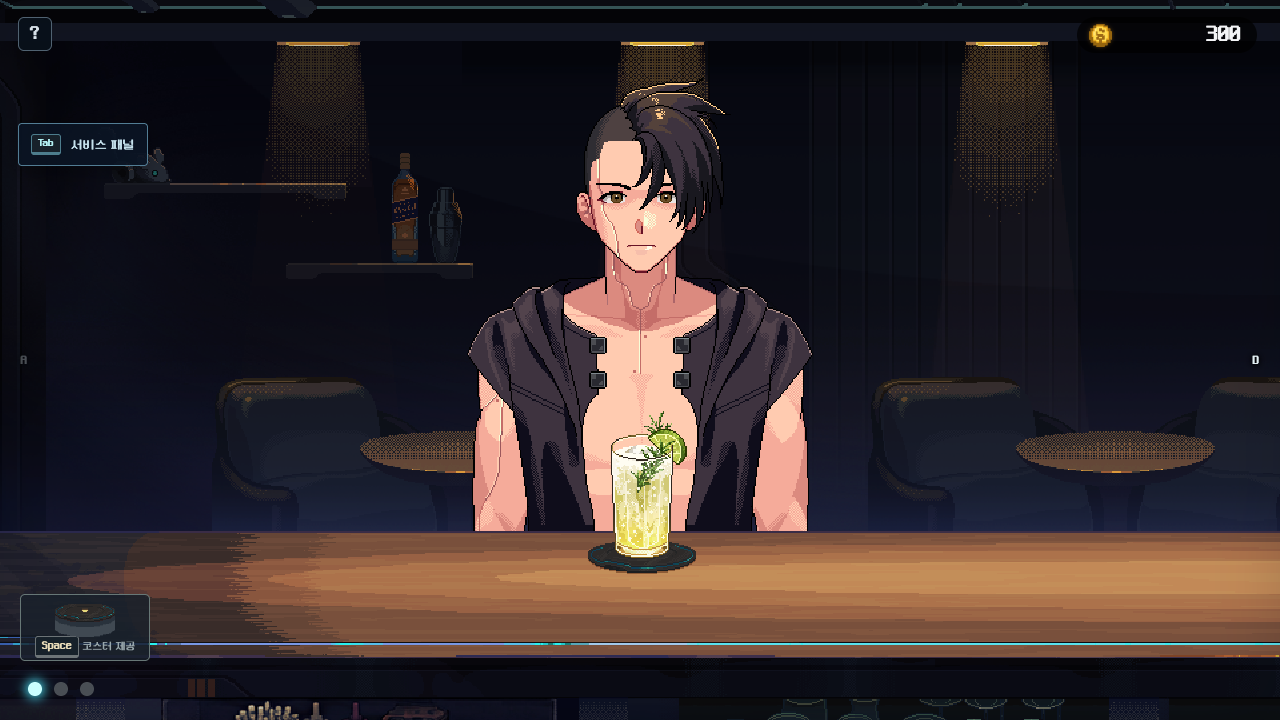
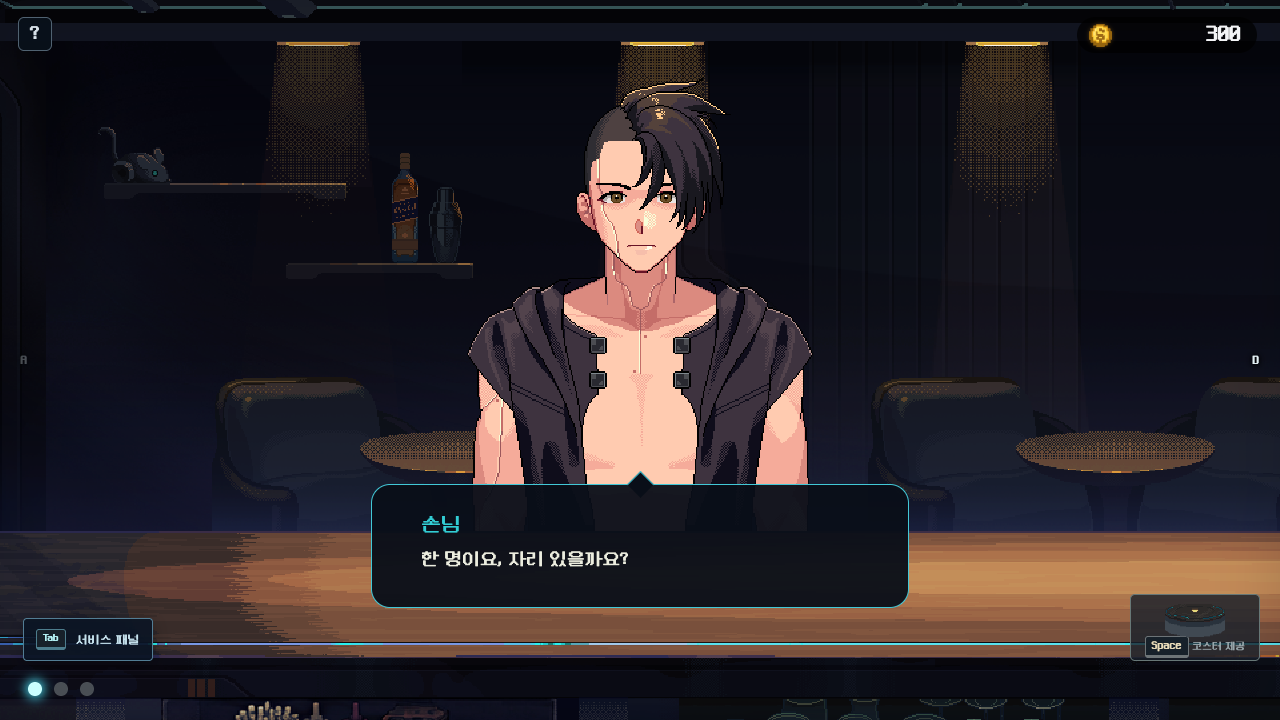
17
17

diff --git a/bar-playtest/bar-views.css b/bar-playtest/bar-views.css
@@ -72,7 +72,7 @@ html,body{overflow:hidden;background:#03060b}
 .choices button{position:relative;text-align:center;min-height:49px;border-radius:0;border:1px solid #8f979b;background:#0c111af5;color:#bfc3c7;font-size:19px;padding:11px 32px;clip-path:polygon(0 0,100% 0,100% 100%,16px 100%,0 calc(100% - 13px));box-shadow:none}
 .choices button:hover:not(:disabled),.choices button:focus-visible{border-color:#49e7f3;background:#14212ded;color:#5de8f6;box-shadow:inset 0 -2px #48d4e2}
 .choices button:hover:not(:disabled):before,.choices button:focus-visible:before{content:'▷';position:absolute;left:24px;top:12px;color:#5de8f6}.choices button small{font-size:11px}
-.stack{left:20px;bottom:59px;padding:8px 14px}.stack img{width:62px}.stack small{font-size:10px;margin-top:13px}.tray{right:20px;bottom:59px;padding:9px 14px;font-size:12px}.tray .drink-art{width:45px;height:73px}.tray h3{font-size:15px}.tray small{font-size:10px}
+.stack{left:auto;right:20px;bottom:59px;padding:8px 14px}.stack img{width:62px}.stack small{font-size:10px;margin-top:13px}.tray{right:20px;bottom:59px;padding:9px 14px;font-size:12px}.tray .drink-art{width:45px;height:73px}.tray h3{font-size:15px}.tray small{font-size:10px}
 .workspace>.modal-backdrop{padding:48px 25px 18px}.workspace>.inspector{top:48px;bottom:14px}.side-panel .panel-header{padding:13px 18px}.recipe-peek{top:70px}.workspace>.pause-full{z-index:30}
 .stage{container-type:size}.world{inset:auto;left:50%;top:50%;width: max(100cqw, calc(100cqh * 2041 / 792));height: max(100cqh, calc(100cqw * 792 / 2041));margin-left:calc(max(100cqw, 100cqh * 2041 / 792) / -2);margin-top:calc(max(100cqh, 100cqw * 792 / 2041) / -2);transform-origin:50% 57%}
 .actor.pixel-actor,.general-world .actor.pixel-actor{width:26.9966%;height:auto;aspect-ratio:551/530;bottom:15.5%;transform:translateX(calc(-50% + var(--arrival)));transition:none}
@@ -126,9 +126,9 @@ html,body{overflow:hidden;background:#03060b}
 
 /* Bar HUD: no bottom toolbar, no brand wordmark. */
 .bar-view{position:absolute;inset:0}
-.service-handle{position:absolute;left:18px;top:123px;z-index:13;display:flex;align-items:center;gap:10px;background:#0a1423e6;border-color:#527d94;box-shadow:0 4px 18px #0004;padding:10px 12px;font-size:12px;color:#c6e2ed}.service-handle kbd{font-size:11px;color:#b4f2f5;border-color:#4d7d8d}
+.service-handle{position:absolute;left:23px;top:auto;bottom:59px;z-index:13;display:flex;align-items:center;gap:10px;background:#0a1423e6;border-color:#527d94;box-shadow:0 4px 18px #0004;padding:10px 12px;font-size:12px;color:#c6e2ed}.service-handle kbd{font-size:11px;color:#b4f2f5;border-color:#4d7d8d}
 .seat-indicators{position:absolute;left:23px;bottom:19px;display:flex;gap:2px;z-index:13;background:transparent;padding:0}.seat-indicators button{border:0;background:transparent;padding:5px;border-radius:50%}.seat-indicators button span{display:block;width:14px;height:14px;border-radius:50%;background:#494e54}.seat-indicators button.selected span{background:#c9ffff;box-shadow:0 0 11px 3px #44cde0}.seat-indicators button:hover span{background:#9caeb8}.seat-indicators button.selected:hover span{background:#c9ffff}
-.service-layer{position:absolute;inset:0;z-index:36}.service-scrim{position:absolute;inset:0;border:0;border-radius:0;background:#02061045;cursor:default}.service-scrim:hover:not(:disabled){background:#02061045;border:0}.service-panel{position:absolute;left:18px;top:113px;width:296px;padding:20px;background:#0c1523f7;border:1px solid #63a4bb;border-radius:8px;box-shadow:0 8px 30px #0008;animation:service-enter .18s ease-out}.service-panel header{display:flex;align-items:center;justify-content:space-between;margin-bottom:20px}.service-panel h2{font-size:20px;color:#82e5ed;margin:0}.service-panel header button{padding:3px 9px;font-size:22px;background:transparent}.service-actions{display:flex;flex-direction:column;gap:10px}.service-actions button{text-align:left;display:flex;align-items:center;gap:13px;padding:17px 13px;font-size:15px;background:#172636;border-color:#425c70}.service-actions button span{color:#82dbe6;font-size:20px}.service-actions button:hover{background:#234258;border-color:#6cdce8}.service-panel p{font-size:11px;margin:18px 0 14px;color:#9cb6c4}.service-panel>small{font-size:11px}.service-panel kbd{font-size:10px}@keyframes service-enter{from{opacity:0;transform:translateX(-12px)}to{opacity:1;transform:translateX(0)}}
+.service-layer{position:absolute;inset:0;z-index:36}.service-scrim{position:absolute;inset:0;border:0;border-radius:0;background:#02061045;cursor:default}.service-scrim:hover:not(:disabled){background:#02061045;border:0}.service-panel{position:absolute;left:23px;top:auto;bottom:109px;width:296px;padding:20px;background:#0c1523f7;border:1px solid #63a4bb;border-radius:8px;box-shadow:0 8px 30px #0008;animation:service-enter .18s ease-out}.service-panel header{display:flex;align-items:center;justify-content:space-between;margin-bottom:20px}.service-panel h2{font-size:20px;color:#82e5ed;margin:0}.service-panel header button{padding:3px 9px;font-size:22px;background:transparent}.service-actions{display:flex;flex-direction:column;gap:10px}.service-actions button{text-align:left;display:flex;align-items:center;gap:13px;padding:17px 13px;font-size:15px;background:#172636;border-color:#425c70}.service-actions button span{color:#82dbe6;font-size:20px}.service-actions button:hover{background:#234258;border-color:#6cdce8}.service-panel p{font-size:11px;margin:18px 0 14px;color:#9cb6c4}.service-panel>small{font-size:11px}.service-panel kbd{font-size:10px}@keyframes service-enter{from{opacity:0;transform:translateX(-12px)}to{opacity:1;transform:translateX(0)}}
 @media(prefers-reduced-motion:reduce){.service-panel{animation:none}}
 
 
@@ -147,3 +147,6 @@ html,body{overflow:hidden;background:#03060b}
 .view-key:focus-visible{outline:1px solid #6ce1ea;outline-offset:-5px}
 .settings-row~.row .site-home,.modal .site-home{display:inline-flex;align-items:center;padding:10px 14px;color:#aedee4;text-decoration:none;border:1px solid #506271;border-radius:5px;background:#111d29;font-size:14px}
 .modal .site-home:focus-visible{outline:2px solid #8de8ed;outline-offset:3px}
+
+/* Keep the right-hand coaster dock clear when a reminder or finished drink is shown. */
+.bar-view:has(.stack) .tray{bottom:170px}
